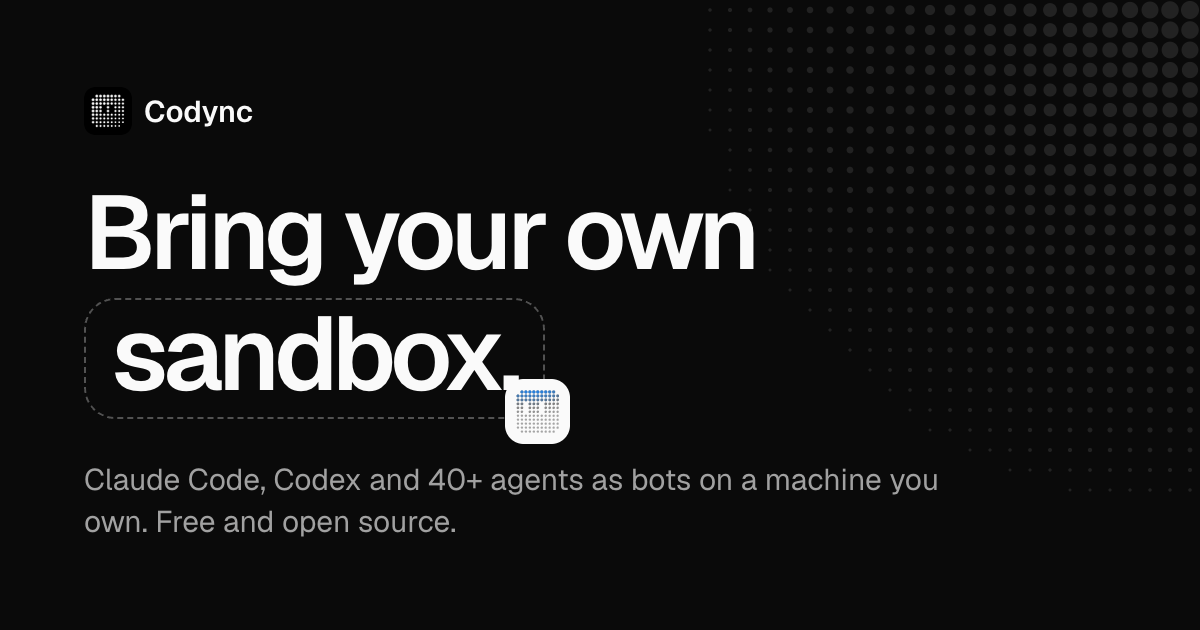
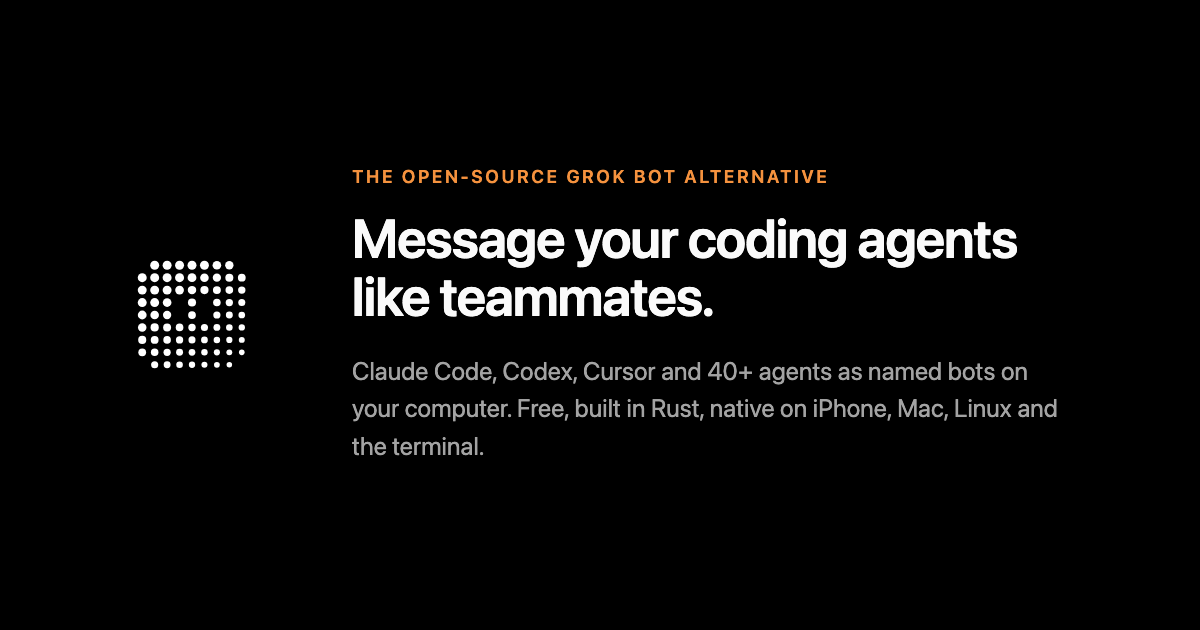
feat(web): bring back the Grok Bot hero, with "Bring your own sandbox" as a feature
The homepage opens with the earlier hero again: the rotating "Bring your
<agent> into Codync" headline and the open-source Grok Bot alternative
pitch. "Bring your own sandbox" becomes one feature section after the live
demo, and the search and share previews return to their earlier text.

Claude-Session: https://claude.ai/code/session_01CCzjNAxtXQdqNEBp9Aa9Fg

diff --git a/web/app/components/hero.tsx b/web/app/components/hero.tsx
@@ -1,12 +1,23 @@
 "use client";
 
 import { motion, MotionConfig } from "framer-motion";
+import { DeviceMobile, LinuxLogo, Terminal, WindowsLogo } from "@phosphor-icons/react";
+import { agentName, type Agent } from "./agent-mark";
+import AgentRotator from "./agent-rotator";
+import { AppleLogo } from "./apple-logo";
 import DownloadButton from "./download-button";
-import GitHubStarButton from "./github-star-button";
 import Halftone from "./halftone";
 import LivePhones from "./live-phone/live-phones";
 import { CharacterAvatar } from "./live-phone/avatar";
+import { AppStoreButton, PlayStoreButton } from "./store-buttons";
+import GitHubStarButton from "./github-star-button";
 import { ease } from "./motion";
+import { GITHUB, PRODUCT_HUNT } from "../links";
+
+// Agents the headline cycles through.
+const agents: Agent[] = ["claude", "codex", "gemini", "cursor", "copilot", "opencode"];
+
+const list = new Intl.ListFormat("en", { type: "disjunction" });
 
 export default function Hero() {
   // Same markup on server and client; MotionConfig drops the movement for reduced motion.
@@ -18,52 +29,82 @@ export default function Hero() {
 
   return (
     <MotionConfig reducedMotion="user">
-      <section className="relative overflow-x-clip px-4 pt-12 pb-16 sm:px-6 md:pt-16 md:pb-20">
-        <Halftone corner="top-right" className="w-[44rem] max-w-[90vw] text-neutral-50 opacity-[0.1]" />
-        <div className="relative mx-auto grid max-w-6xl grid-cols-1 items-center gap-16 md:grid-cols-[1.2fr_1fr] md:gap-8">
+      <section className="relative overflow-x-clip px-4 pt-14 pb-20 sm:px-6 md:pt-20 md:pb-28">
+        <Halftone corner="top-right" className="w-[44rem] max-w-[90vw] text-neutral-50 opacity-[0.12]" />
+        <Halftone corner="top-left" className="w-[30rem] max-w-[70vw] text-neutral-50 opacity-[0.08]" />
+        <motion.div {...rise(0)} className="relative mb-10 flex justify-center md:mb-14">
+          <a
+            href={PRODUCT_HUNT}
+            target="_blank"
+            rel="noopener noreferrer"
+            className="flex items-center gap-3 transition hover:opacity-80"
+          >
+            {/* eslint-disable-next-line @next/next/no-img-element -- live badge served by Product Hunt */}
+            <img
+              src="https://api.producthunt.com/widgets/embed-image/v1/featured.svg?post_id=1267264&theme=dark"
+              alt="Codync on Product Hunt"
+              width={250}
+              height={54}
+              className="h-10 w-auto"
+            />
+            <span className="text-sm font-medium text-neutral-300">#16 Product of the Day</span>
+          </a>
+        </motion.div>
+        <div className="relative mx-auto grid max-w-6xl grid-cols-1 items-center gap-14 md:grid-cols-[1.15fr_1fr] md:gap-8">
           <div className="flex flex-col items-start text-left">
-            <motion.p
-              {...rise(0)}
-              className="inline-flex items-center gap-2 rounded-full bg-neutral-900 py-1.5 pr-4 pl-1.5 text-sm text-neutral-300"
-            >
-              <span className="rounded-full bg-neutral-50 px-2.5 py-0.5 text-xs font-semibold text-neutral-950">100% free</span>
-              Open source, no paid tier
-            </motion.p>
+            <motion.div {...rise(0)} className="flex flex-col items-start gap-4">
+              <span className="inline-flex items-center gap-2 rounded-full bg-neutral-900 py-1.5 pr-4 pl-1.5 text-sm">
+                <span className="rounded-full bg-neutral-50 px-2.5 py-0.5 text-xs font-semibold whitespace-nowrap text-neutral-950">100% free</span>
+                <span className="rounded-full bg-neutral-50 px-2.5 py-0.5 text-xs font-semibold whitespace-nowrap text-neutral-950">Private</span>
+                <span className="text-neutral-300">End-to-end encrypted, no paid tier</span>
+              </span>
+            </motion.div>
 
             <motion.h1
-              {...rise(0.05)}
-              className="mt-8 text-[3.25rem] leading-[1.04] font-semibold tracking-tighter text-neutral-50 sm:text-7xl lg:text-[5.25rem]"
+              {...rise(0.04)}
+              className="mt-8 text-[2.75rem] leading-[1.06] font-semibold tracking-tighter text-neutral-50 sm:text-6xl md:text-5xl lg:text-6xl xl:text-7xl"
             >
-              Bring your own{" "}
-              {/* The sandbox, drawn as one: a dashed boundary with a bot sitting on its edge. */}
-              <motion.span
-                initial={{ opacity: 0, scale: 0.96 }}
-                animate={{ opacity: 1, scale: 1 }}
-                transition={{ duration: 0.8, delay: 0.35, ease }}
-                className="relative mt-[0.12em] block w-fit rounded-[0.3em] border-2 border-dashed border-neutral-600 px-[0.24em] pb-[0.1em]"
-              >
-                sandbox.
-                <span
-                  aria-hidden
-                  className="absolute -right-[0.26em] -bottom-[0.26em] flex size-[0.62em] items-center justify-center rounded-[0.18em] bg-neutral-50 [&_svg]:size-[80%]"
-                >
-                  <CharacterAvatar shape="squircle" color="blue" size={88} mood="working" />
+              <span className="sr-only">Bring your {list.format(agents.map((agent) => agentName[agent]))} into Codync</span>
+              <span aria-hidden className="flex flex-col items-start">
+                <span>Bring your</span>
+                <AgentRotator agents={agents} />
+                <span className="inline-flex items-center gap-x-[0.22em]">
+                  into
+                  <span className="inline-flex size-[0.95em] items-center justify-center rounded-[0.24em] bg-neutral-50 [&_svg]:size-[78%]">
+                    <CharacterAvatar shape="squircle" color="blue" size={88} mood="working" />
+                  </span>
+                  Codync
                 </span>
-              </motion.span>
+              </span>
             </motion.h1>
 
-            <motion.p {...rise(0.12)} className="mt-8 max-w-[33rem] text-lg leading-relaxed text-neutral-400">
-              Codync turns Claude Code, Codex and 40+ agents into bots on a machine you own. Message them from anywhere.
+            <motion.p {...rise(0.1)} className="mt-8 max-w-[36rem] text-lg leading-relaxed text-neutral-400">
+              The open-source Grok Bot alternative, 100% free. Persistent AI teammates on your own computer, for code
+              and everyday life. Bring any of 40+ agents and the subscription you already pay for.
             </motion.p>
 
-            <motion.div {...rise(0.18)} className="mt-10 flex flex-wrap items-center gap-3">
+            <motion.div {...rise(0.16)} className="mt-10 flex flex-wrap items-center gap-3">
               <DownloadButton />
               <GitHubStarButton />
+              {/* The two phone stores stay side by side on their own row. */}
+              <div className="flex flex-wrap gap-3">
+                <AppStoreButton />
+                <PlayStoreButton />
+              </div>
             </motion.div>
+
+            <motion.p {...rise(0.2)} className="mt-6 flex flex-wrap items-center gap-x-4 gap-y-2 text-sm text-neutral-500">
+              <span className="inline-flex items-center gap-1.5"><AppleLogo size={15} weight="fill" /> macOS</span>
+              <span className="inline-flex items-center gap-1.5"><WindowsLogo size={15} weight="fill" /> Windows</span>
+              <span className="inline-flex items-center gap-1.5"><LinuxLogo size={15} weight="fill" /> Linux</span>
+              <span className="inline-flex items-center gap-1.5"><DeviceMobile size={15} weight="fill" /> iPhone</span>
+              <span className="inline-flex items-center gap-1.5"><Terminal size={15} weight="bold" /> Terminal</span>
+              <a href={GITHUB} className="underline underline-offset-4 hover:text-neutral-300">Apache 2.0 licensed</a>
+            </motion.p>
           </div>
 
           {/* The live iPhones; the front one hangs below the back one, so reserve room for it. */}
-          <div className="relative mx-auto mb-16 w-full max-w-[24rem] md:mb-14 md:max-w-[26rem]">
+          <div className="relative mx-auto mb-16 w-full max-w-[26rem] md:mb-20 md:max-w-none">
             <LivePhones />
           </div>
         </div>

diff --git a/web/app/components/byo-scroller.tsx b/web/app/components/byo-scroller.tsx
@@ -1,8 +1,8 @@
 "use client";
 
 import { useEffect, useRef, useState } from "react";
-import { AnimatePresence, motion, MotionConfig, useMotionValueEvent, useScroll } from "framer-motion";
-import { ease } from "./motion";
+import { MotionConfig, useMotionValueEvent, useScroll } from "framer-motion";
+import BlurSwap from "./blur-swap";
 
 type Step = { word: string; id?: string; content: React.ReactNode };
 
@@ -27,21 +27,7 @@ export default function ByoScroller({ steps }: { steps: Step[] }) {
           <div className="sticky top-0 flex h-[100dvh] items-center">
             <p className="text-6xl leading-[1.05] font-semibold tracking-tighter text-neutral-50 lg:text-7xl">
               Bring your own{" "}
-              {/* The leaving and arriving words share one grid cell, so they cross in place. */}
-              <span className="grid">
-                <AnimatePresence initial={false}>
-                  <motion.span
-                    key={steps[active].word}
-                    initial={{ opacity: 0, y: "0.4em", filter: "blur(10px)" }}
-                    animate={{ opacity: 1, y: 0, filter: "blur(0px)" }}
-                    exit={{ opacity: 0, y: "-0.4em", filter: "blur(10px)" }}
-                    transition={{ duration: 0.6, ease }}
-                    className="col-start-1 row-start-1"
-                  >
-                    {steps[active].word}
-                  </motion.span>
-                </AnimatePresence>
-              </span>
+              <BlurSwap id={steps[active].word}>{steps[active].word}</BlurSwap>
             </p>
           </div>
         </div>

diff --git a/web/app/components/install.tsx b/web/app/components/install.tsx
@@ -4,7 +4,7 @@ import { AppleLogo } from "./apple-logo";
 import CopyCommand from "./copy-command";
 import Halftone from "./halftone";
 import Reveal from "./reveal";
-import { ANDROID_TEST, APP_STORE, DMG, INSTALL_SH, LINUX, LINUX_ARM, PRODUCT_HUNT, WINDOWS } from "../links";
+import { ANDROID_TEST, APP_STORE, DMG, INSTALL_SH, LINUX, LINUX_ARM, WINDOWS } from "../links";
 
 export default function Install() {
   return (
@@ -16,23 +16,6 @@ export default function Install() {
           <p className="mt-5 max-w-[36rem] text-lg leading-relaxed text-neutral-400">
             Put Codync on the computer your agents run on, then pair your phone from it.
           </p>
-          <a
-            href={PRODUCT_HUNT}
-            target="_blank"
-            rel="noopener noreferrer"
-            className="mt-8 inline-flex items-center gap-3 transition hover:opacity-80"
-          >
-            {/* eslint-disable-next-line @next/next/no-img-element -- live badge served by Product Hunt */}
-            <img
-              src="https://api.producthunt.com/widgets/embed-image/v1/featured.svg?post_id=1267264&theme=dark"
-              alt="Codync on Product Hunt"
-              width={250}
-              height={54}
-              loading="lazy"
-              className="h-10 w-auto"
-            />
-            <span className="text-sm font-medium text-neutral-300">#16 Product of the Day</span>
-          </a>
         </Reveal>
 
         <div className="mt-12 grid grid-cols-1 gap-4 md:grid-cols-2 lg:grid-cols-4">

diff --git a/web/app/components/agent-mark.tsx b/web/app/components/agent-mark.tsx
@@ -1,4 +1,5 @@
 import { OpenAiLogo } from "@phosphor-icons/react/ssr";
+import { preload } from "react-dom";
 
 // Agent brand marks: Simple Icons slugs, and OpenAI's mark from Phosphor for Codex.
 const simpleIcons = {
@@ -20,14 +21,20 @@ export const agentName: Record<Agent, string> = {
   opencode: "OpenCode",
 };
 
+const src = (agent: keyof typeof simpleIcons, color = "ffffff") => `https://cdn.simpleicons.org/${simpleIcons[agent]}/${color}`;
+
+/** Fetches the marks up front, for marks that only mount later (the hero's rotating agent). */
+export function preloadAgentMarks(agents: Agent[]) {
+  for (const agent of agents) if (agent !== "codex") preload(src(agent), { as: "image" });
+}
+
 /** `ink`: light marks for dark surfaces (the default), dark ones for light surfaces. */
 export default function AgentMark({ agent, className, ink = "light" }: { agent: Agent; className: string; ink?: "light" | "dark" }) {
   if (agent === "codex") {
     return <OpenAiLogo weight="fill" className={`${ink === "light" ? "text-neutral-50" : "text-neutral-950"} ${className}`} />;
   }
-  const color = ink === "light" ? "ffffff" : "0a0a0a";
   return (
     // eslint-disable-next-line @next/next/no-img-element -- brand marks from Simple Icons
-    <img src={`https://cdn.simpleicons.org/${simpleIcons[agent]}/${color}`} alt="" width={18} height={18} className={className} />
+    <img src={src(agent, ink === "light" ? "ffffff" : "0a0a0a")} alt="" width={18} height={18} className={className} />
   );
 }

diff --git a/web/app/components/computers.tsx b/web/app/components/computers.tsx
@@ -6,7 +6,7 @@ const cards = [
   {
     id: "cloud",
     title: "Codync Cloud",
-    body: "No computer on all day? Start a Linux sandbox on your own Boat or InstaBox account. It sleeps while your bots are idle and wakes when you message one. Codync charges nothing for it.",
+    body: "No computer on all day? Start a Linux computer on your own Boat or InstaBox account. It sleeps while your bots are idle and wakes when you message one. Codync charges nothing for it.",
     panel: <CloudPanel />,
   },
   {
@@ -17,14 +17,14 @@ const cards = [
   },
 ];
 
-// Past one computer: a sandbox in the cloud, and bots on different computers working together.
+// Past one computer: a computer in the cloud, and bots on different computers working together.
 export default function Computers() {
   return (
     <section className="px-4 py-24 sm:px-6 md:py-32">
       <div className="mx-auto max-w-6xl">
         <Reveal>
           <h2 className="max-w-[36rem] text-4xl font-semibold tracking-tighter text-neutral-50 md:text-5xl">
-            More than one sandbox.
+            More than one computer.
           </h2>
           <p className="mt-5 max-w-[34rem] text-lg leading-relaxed text-neutral-400">
             Add servers over SSH from the desktop app, start one in the cloud, and let bots on different computers work

diff --git a/web/app/components/agent-rotator.tsx b/web/app/components/agent-rotator.tsx
@@ -1,0 +1,27 @@
+"use client";
+
+import { useEffect, useState } from "react";
+import { useReducedMotion } from "framer-motion";
+import AgentMark, { agentName, preloadAgentMarks, type Agent } from "./agent-mark";
+import BlurSwap from "./blur-swap";
+
+// One agent at a time, each rising out of a blur; it holds on the first under reduced motion.
+export default function AgentRotator({ agents }: { agents: Agent[] }) {
+  const [shown, setShown] = useState(0);
+  const reduce = useReducedMotion();
+  preloadAgentMarks(agents);
+
+  useEffect(() => {
+    if (reduce) return;
+    const timer = setInterval(() => setShown((i) => (i + 1) % agents.length), 2400);
+    return () => clearInterval(timer);
+  }, [reduce, agents.length]);
+
+  const agent = agents[shown];
+  return (
+    <BlurSwap id={agent} className="inline-flex items-center gap-x-[0.22em] whitespace-nowrap">
+      <AgentMark agent={agent} className="size-[0.82em]" />
+      {agentName[agent]}
+    </BlurSwap>
+  );
+}

diff --git a/web/app/components/blur-swap.tsx b/web/app/components/blur-swap.tsx
@@ -1,0 +1,25 @@
+"use client";
+
+import { AnimatePresence, motion } from "framer-motion";
+import { ease } from "./motion";
+
+// Swaps its content whenever `id` changes, the new one rising out of a blur.
+// The leaving and the arriving content share one grid cell, so they cross in place.
+export default function BlurSwap({ id, className, children }: { id: string; className?: string; children: React.ReactNode }) {
+  return (
+    <span className="grid">
+      <AnimatePresence initial={false}>
+        <motion.span
+          key={id}
+          initial={{ opacity: 0, y: "0.4em", filter: "blur(10px)" }}
+          animate={{ opacity: 1, y: 0, filter: "blur(0px)" }}
+          exit={{ opacity: 0, y: "-0.4em", filter: "blur(10px)" }}
+          transition={{ duration: 0.6, ease }}
+          className={`col-start-1 row-start-1 ${className ?? ""}`}
+        >
+          {children}
+        </motion.span>
+      </AnimatePresence>
+    </span>
+  );
+}

diff --git a/web/app/site.ts b/web/app/site.ts
@@ -3,7 +3,7 @@ export const SITE = "https://www.codync.dev";
 
 /** The search snippet: kept under 160 characters so it isn't cut off. */
 export const DESCRIPTION =
-  "Bring your own sandbox, agent and subscription: Claude Code, Codex or 40+ AI agents as bots you message from iPhone, Mac, Windows or Linux. Free, open source.";
+  "Bring Claude Code, Codex or any of 40+ AI agents and your own subscription, then message them as bots from iPhone, Mac, Windows or Linux. Free and open source.";
 
 /** The long form, for structured data and AI answer engines. */
 export const ABOUT =

diff --git a/web/app/page.tsx b/web/app/page.tsx
@@ -1,6 +1,5 @@
 import type { Metadata } from "next";
 import Hero from "./components/hero";
-import Agents from "./components/agents";
 import BringYourOwn from "./components/bring-your-own";
 import Demo from "./components/demo";
 import Features from "./components/features";
@@ -19,9 +18,8 @@ export default function Home() {
       <SiteHeader />
       <main className="flex-1">
         <Hero />
-        <Agents />
-        <BringYourOwn />
         <Demo />
+        <BringYourOwn />
         <Features />
         <Computers />
         <Privacy />

diff --git a/web/app/components/features.tsx b/web/app/components/features.tsx
@@ -15,7 +15,7 @@ export default function Features() {
       <div className="mx-auto max-w-6xl">
         <Reveal>
           <h2 className="max-w-[36rem] text-4xl font-semibold tracking-tighter text-neutral-50 md:text-5xl">
-            A team of bots in your sandbox.
+            A team of bots on your own computer.
           </h2>
           <p className="mt-5 max-w-[34rem] text-lg leading-relaxed text-neutral-400">
             Each bot keeps its own chat, memory, folder and agent. Message one, or put a few in a room.

diff --git a/web/app/components/privacy.tsx b/web/app/components/privacy.tsx
@@ -29,7 +29,7 @@ export default function Privacy() {
             Private by design.
           </h2>
           <p className="mt-5 max-w-[34rem] text-lg leading-relaxed text-neutral-400">
-            The phone is a remote for a sandbox you own. Nothing about your work passes through anyone else in the clear.
+            The phone is a remote for a computer you own. Nothing about your work passes through anyone else in the clear.
           </p>
         </Reveal>
 

diff --git a/web/app/components/bring-your-own.tsx b/web/app/components/bring-your-own.tsx
@@ -21,7 +21,7 @@ const steps = [
   },
 ];
 
-// The tagline, unpacked: rendered here on the server; the scroller only tracks which step is in view.
+// Bring your own sandbox, agent and subscription, one step at a time: rendered here on the server; the scroller only tracks which step is in view.
 // On phones each step carries its own heading.
 export default function BringYourOwn() {
   return (
